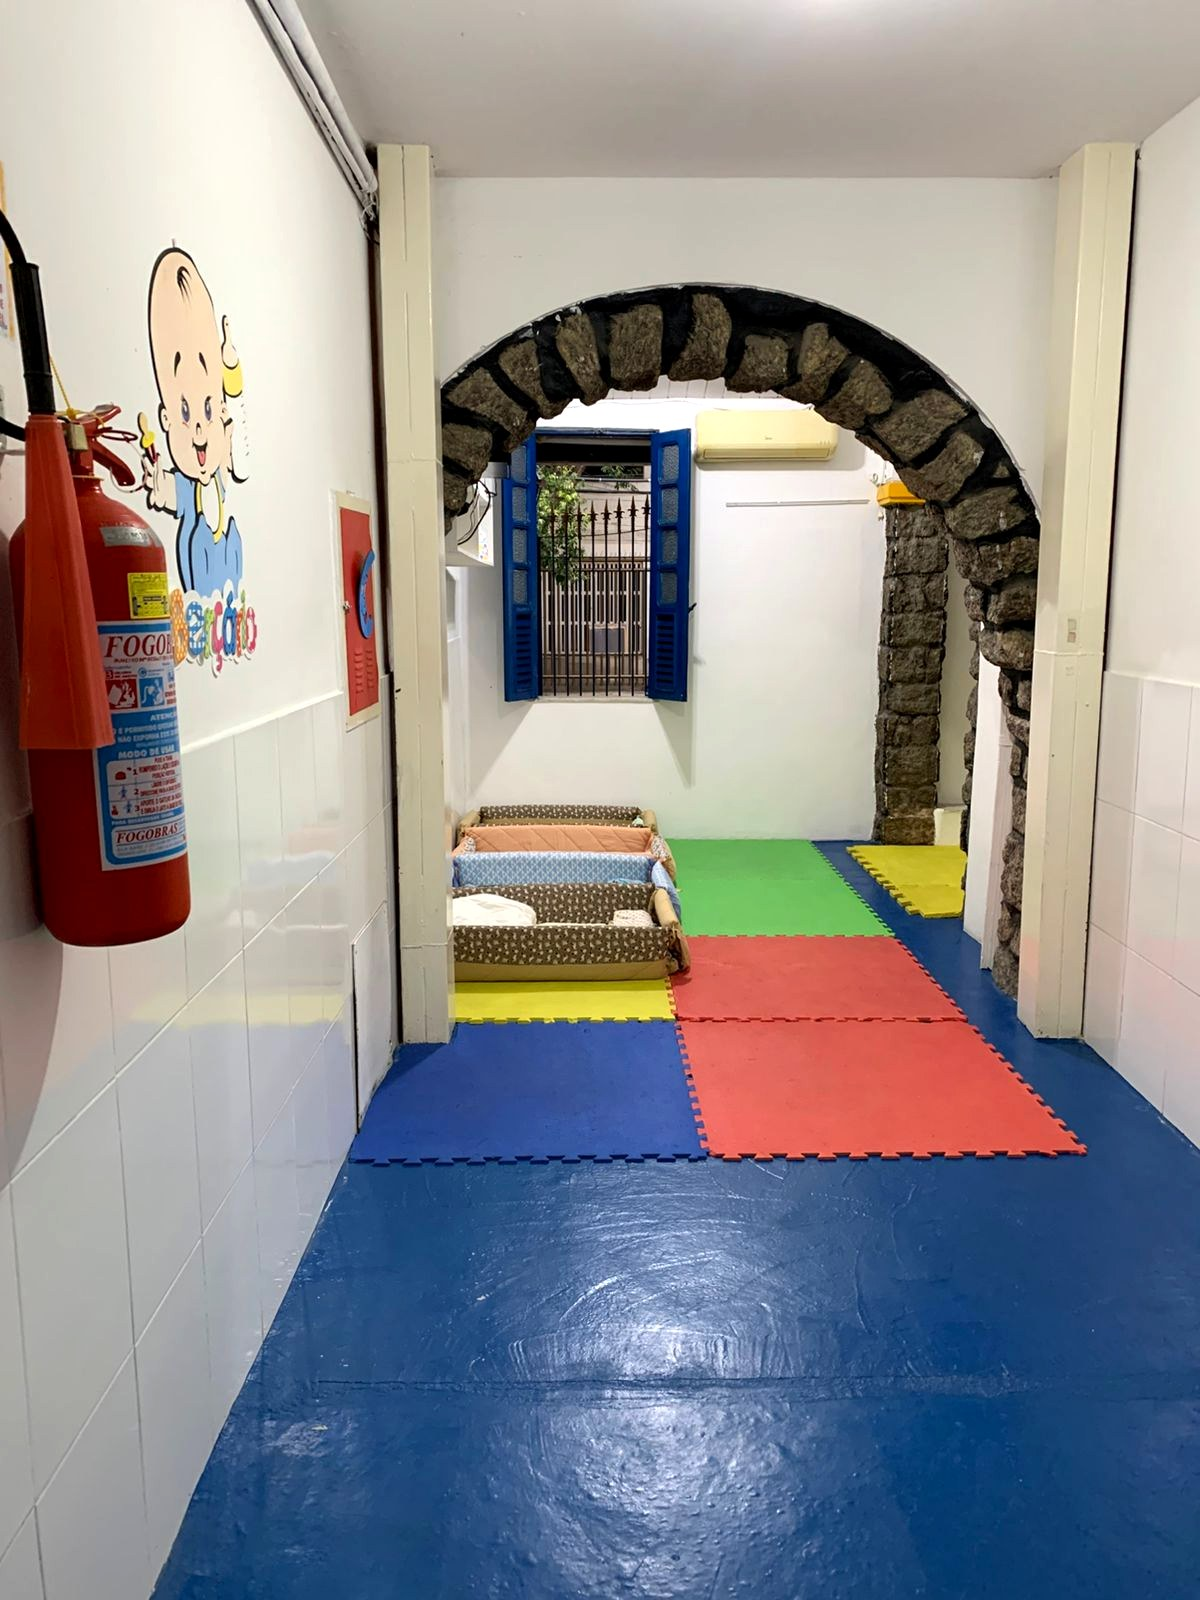
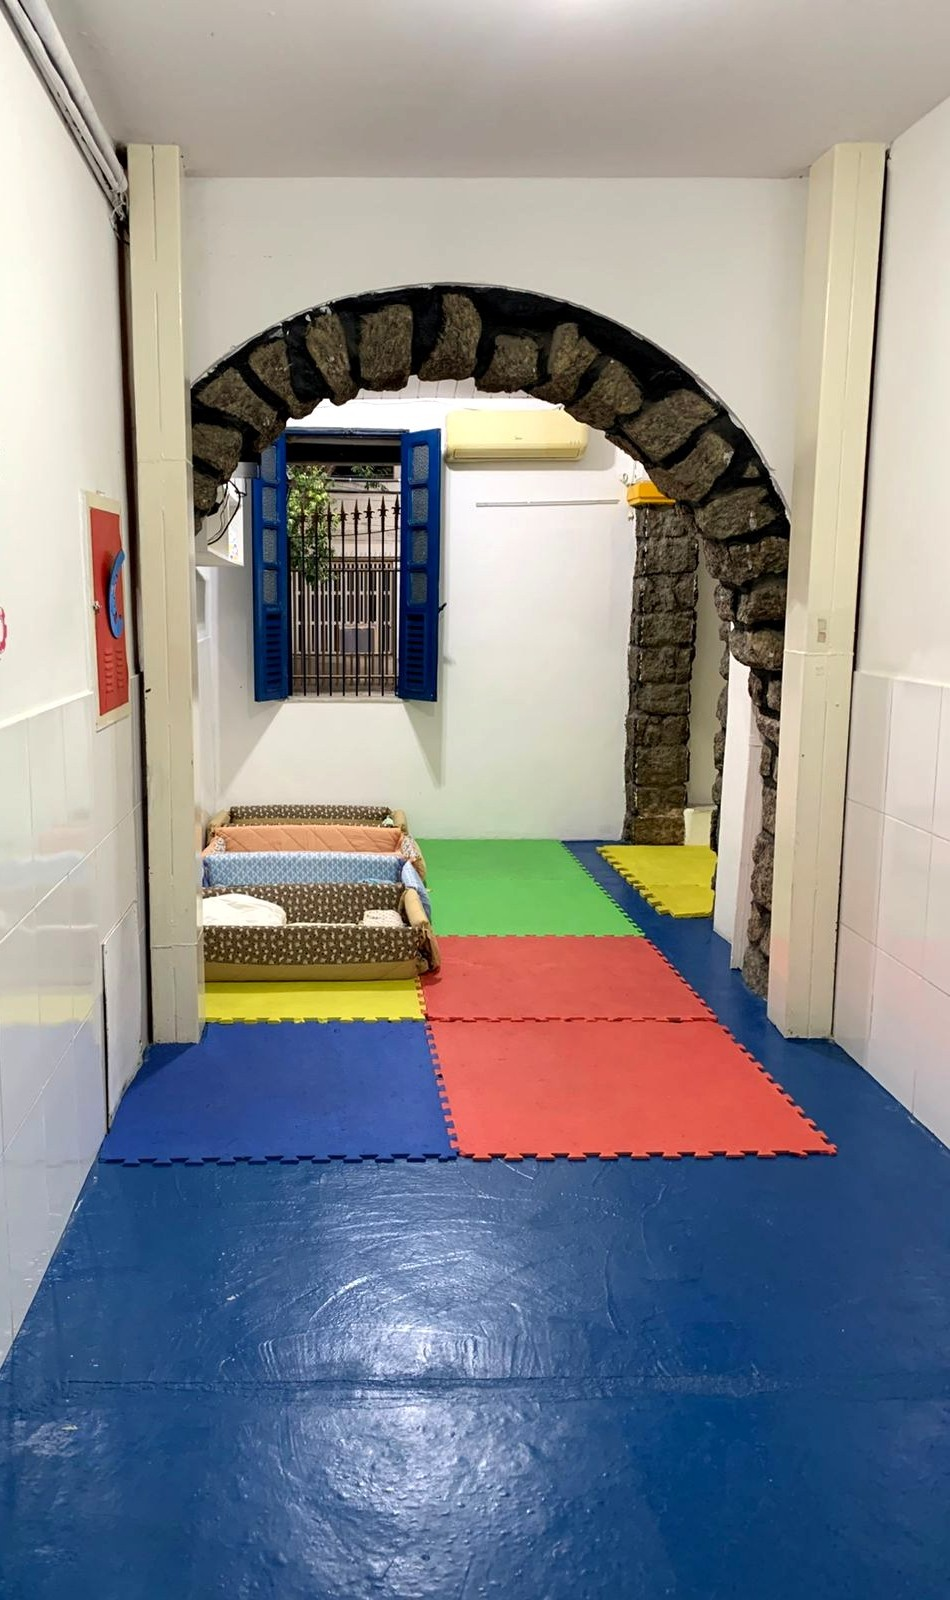
Add files via upload

diff --git a/index.html b/index.html
@@ -160,8 +160,8 @@
           </figure>
 
           <figure class="photo-card">
-            <img src="assets/espaco-corredor-bercario.jpg" alt="Área para dormir do berçário da Escola Gota de Mel" loading="lazy" />
-            <figcaption>Área para dormir</figcaption>
+            <img src="assets/espaco-corredor-bercario.jpg" alt="Cantinho de Sono do berçário da Escola Gota de Mel" loading="lazy" />
+            <figcaption>Cantinho de Sono</figcaption>
           </figure>
         </div>
 
@@ -171,6 +171,15 @@
             <span>Biblioteca</span>
             <span>Sala de multimídia</span>
             <span>Sala de orientadora educacional</span>
+          </div>
+        </div>
+        <div class="support-team reveal">
+          <h3>Equipe de apoio</h3>
+          <p>Contamos também com profissionais que acompanham de perto o desenvolvimento e o bem-estar dos nossos alunos.</p>
+          <div class="support-list">
+            <span>Orientadora Educacional</span>
+            <span>Psicóloga</span>
+            <span>Nutricionista</span>
           </div>
         </div>
       </div>
@@ -259,19 +268,16 @@
             <div class="program-icon">🍼</div>
             <h3>Berçário</h3>
             <p>Bebês a partir de 4 meses, com acolhida, alimentação, higiene, estimulação, descanso e recreação.</p>
-            <a href="#contato">Saiba mais →</a>
           </article>
           <article class="program-card featured reveal">
             <div class="program-icon">🍯</div>
             <h3>Educação Infantil</h3>
             <p>Maternal e Pré com muito afeto, movimento, linguagem, criatividade e vivências significativas.</p>
-            <a href="#contato">Saiba mais →</a>
           </article>
           <article class="program-card reveal">
             <div class="program-icon">📘</div>
             <h3>1º Ano</h3>
             <p>Primeiros passos do Fundamental I com intencionalidade pedagógica, autonomia e construção do conhecimento.</p>
-            <a href="#contato">Saiba mais →</a>
           </article>
         </div>
       </div>

diff --git a/styles.css b/styles.css
@@ -576,3 +576,74 @@ img { max-width: 100%; display: block; }
     background: linear-gradient(180deg, #f8f7fb 0%, #fbfbfe 100%);
   }
 }
+
+
+/* ===== Ajustes de contraste e equipe de apoio ===== */
+.main-nav > a.btn,
+.main-nav > a.btn:visited {
+  color: #ffffff;
+}
+
+.main-nav > a.btn:hover,
+.main-nav > a.btn:focus-visible {
+  color: #ffffff;
+  background: var(--blue-dark);
+  border-color: var(--blue-dark);
+}
+
+.support-team {
+  margin-top: 24px;
+  padding: 24px;
+  border-radius: 24px;
+  background: var(--white);
+  border: 1px solid var(--border);
+  box-shadow: 0 10px 24px rgba(31,45,99,.06);
+  text-align: center;
+}
+
+.support-team h3 {
+  margin: 0 0 8px;
+  color: var(--blue-dark);
+  font-size: 1.35rem;
+}
+
+.support-team p {
+  margin: 0 auto 16px;
+  max-width: 720px;
+  color: var(--muted);
+}
+
+.support-list {
+  display: grid;
+  grid-template-columns: repeat(3, 1fr);
+  gap: 12px;
+}
+
+.support-list span {
+  display: flex;
+  align-items: center;
+  justify-content: center;
+  min-height: 52px;
+  padding: 10px 14px;
+  border-radius: 16px;
+  background: var(--yellow-soft);
+  color: var(--blue-dark);
+  font-weight: 800;
+  border: 1px solid rgba(49,69,140,.08);
+}
+
+@media (max-width: 640px) {
+  .main-nav > a.btn {
+    color: #ffffff;
+    background: var(--blue);
+  }
+
+  .support-team {
+    padding: 20px 16px;
+    border-radius: 20px;
+  }
+
+  .support-list {
+    grid-template-columns: 1fr;
+  }
+}

diff --git a/README.md b/README.md
@@ -23,3 +23,10 @@ Atualizações desta versão:
 - seção Nosso Espaço subida na ordem da página
 - seção Atividades subida e intercalada com blocos de texto
 - redução da mancha amarela no mobile
+
+## Ajustes desta versão
+- contraste corrigido no CTA de WhatsApp do topo
+- equipe de apoio adicionada: Orientadora Educacional, Psicóloga e Nutricionista
+- links "Saiba mais" removidos dos cards de turmas
+- legenda alterada para "Cantinho de Sono"
+- foto do Cantinho de Sono recortada para retirar o extintor
